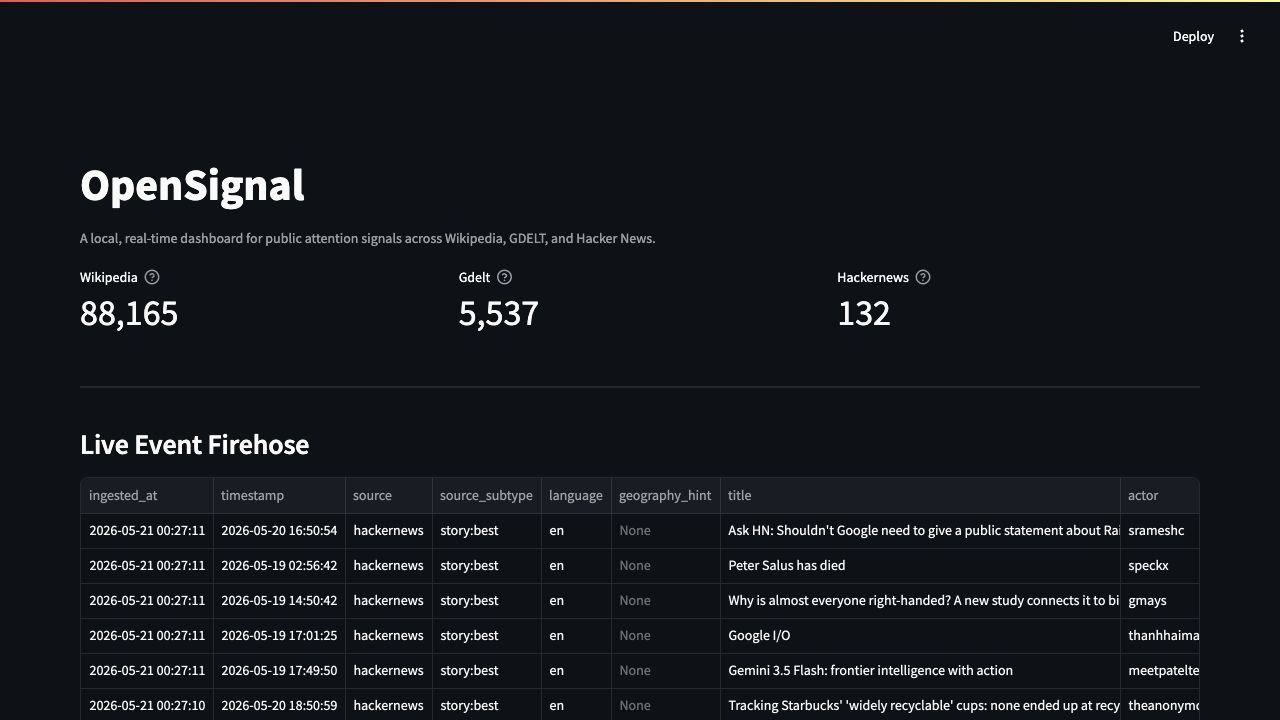
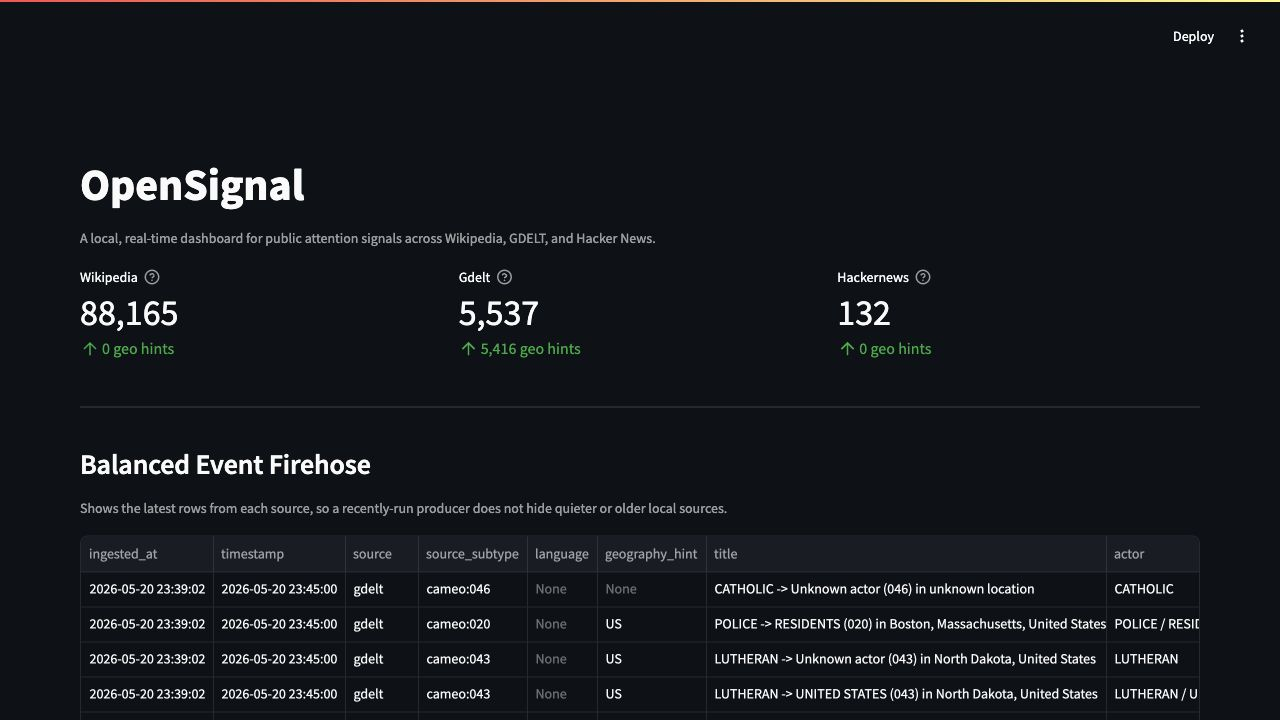
Balance dashboard source visibility

diff --git a/dashboard/app.py b/dashboard/app.py
@@ -15,6 +15,7 @@ SOURCE_COLORS = {
     "gdelt": "#ef4444",
     "hackernews": "#f59e0b",
 }
+SOURCES = ["wikipedia", "gdelt", "hackernews"]
 
 
 @st.cache_resource
@@ -39,7 +40,8 @@ def render_metrics() -> None:
         SELECT
             source,
             count() AS events,
-            max(ingested_at) AS latest
+            max(ingested_at) AS latest,
+            countIf(geography_hint IS NOT NULL) AS with_geo
         FROM events_raw
         GROUP BY source
         ORDER BY source
@@ -47,17 +49,35 @@ def render_metrics() -> None:
     )
 
     cols = st.columns(3)
-    for index, source in enumerate(["wikipedia", "gdelt", "hackernews"]):
+    for index, source in enumerate(SOURCES):
         row = df[df["source"] == source]
         events = int(row["events"].iloc[0]) if not row.empty else 0
         latest = row["latest"].iloc[0] if not row.empty else "none"
-        cols[index].metric(source.title(), f"{events:,}", help=f"Latest event: {latest}")
+        with_geo = int(row["with_geo"].iloc[0]) if not row.empty else 0
+        geo_label = f"{with_geo:,} geo hints"
+        cols[index].metric(source.title(), f"{events:,}", delta=geo_label, help=f"Latest local ingest: {latest}")
 
 
 def render_firehose() -> None:
-    st.subheader("Live Event Firehose")
+    st.subheader("Balanced Event Firehose")
     df = query_df(
         """
+        WITH ranked AS
+        (
+            SELECT
+                ingested_at,
+                timestamp,
+                source,
+                source_subtype,
+                language,
+                geography_hint,
+                title,
+                actor,
+                magnitude,
+                content_url,
+                row_number() OVER (PARTITION BY source ORDER BY ingested_at DESC) AS source_rank
+            FROM events_raw
+        )
         SELECT
             ingested_at,
             timestamp,
@@ -69,11 +89,12 @@ def render_firehose() -> None:
             actor,
             magnitude,
             content_url
-        FROM events_raw
-        ORDER BY ingested_at DESC
-        LIMIT 100
+        FROM ranked
+        WHERE source_rank <= 35
+        ORDER BY source, ingested_at DESC
         """
     )
+    st.caption("Shows the latest rows from each source, so a recently-run producer does not hide quieter or older local sources.")
     st.dataframe(
         df,
         use_container_width=True,
@@ -123,6 +144,12 @@ def render_volume() -> None:
 def top_titles(source: str, label: str, limit: int = 15) -> None:
     df = query_df(
         f"""
+        WITH latest AS
+        (
+            SELECT max(bucket) AS max_bucket
+            FROM title_activity_5m
+            WHERE source = '{source}'
+        )
         SELECT
             title,
             sum(event_count) AS events,
@@ -130,7 +157,7 @@ def top_titles(source: str, label: str, limit: int = 15) -> None:
         FROM title_activity_5m
         WHERE
             source = '{source}'
-            AND bucket >= now() - INTERVAL 1 HOUR
+            AND bucket >= (SELECT max_bucket FROM latest) - INTERVAL 1 HOUR
         GROUP BY title
         ORDER BY events DESC, magnitude DESC
         LIMIT {limit}
@@ -150,7 +177,8 @@ def top_titles(source: str, label: str, limit: int = 15) -> None:
 
 
 def render_top_titles() -> None:
-    st.subheader("Top Titles By Source, Last 1h")
+    st.subheader("Top Titles By Source, Latest Available 1h")
+    st.caption("Each column uses that source's latest available local timestamp. Producers are run manually during Stage 1, so one global wall-clock hour would hide inactive sources.")
     cols = st.columns(3)
     with cols[0]:
         top_titles("wikipedia", "Wikipedia Articles")
@@ -158,6 +186,51 @@ def render_top_titles() -> None:
         top_titles("gdelt", "GDELT Actors/Events")
     with cols[2]:
         top_titles("hackernews", "Hacker News Stories")
+
+
+def render_geography() -> None:
+    st.subheader("Geography Hints")
+    coverage = query_df(
+        """
+        SELECT
+            source,
+            count() AS events,
+            countIf(geography_hint IS NOT NULL) AS with_geo,
+            round(100 * with_geo / events, 1) AS geo_pct
+        FROM events_raw
+        GROUP BY source
+        ORDER BY source
+        """
+    )
+    st.caption("GDELT provides source-level country codes. Wikipedia and Hacker News do not provide reliable geography in raw ingestion; those are left for enrichment.")
+    st.dataframe(coverage, use_container_width=True, hide_index=True)
+
+    gdelt_geo = query_df(
+        """
+        SELECT
+            geography_hint,
+            count() AS events
+        FROM events_raw
+        WHERE source = 'gdelt' AND geography_hint IS NOT NULL
+        GROUP BY geography_hint
+        ORDER BY events DESC
+        LIMIT 20
+        """
+    )
+    if not gdelt_geo.empty:
+        fig = px.bar(
+            gdelt_geo,
+            x="geography_hint",
+            y="events",
+            color_discrete_sequence=[SOURCE_COLORS["gdelt"]],
+        )
+        fig.update_layout(
+            height=300,
+            margin=dict(l=12, r=12, t=20, b=12),
+            xaxis_title="Country code",
+            yaxis_title="GDELT events",
+        )
+        st.plotly_chart(fig, use_container_width=True)
 
 
 def main() -> None:
@@ -182,6 +255,8 @@ def main() -> None:
     st.divider()
     render_volume()
     st.divider()
+    render_geography()
+    st.divider()
     render_top_titles()
 
     st.caption(f"Last refreshed at {datetime.now(UTC).strftime('%Y-%m-%d %H:%M:%S UTC')}")
@@ -189,4 +264,3 @@ def main() -> None:
 
 if __name__ == "__main__":
     main()
-

diff --git a/README.md b/README.md
@@ -136,9 +136,12 @@ make demo
 
 The dashboard includes:
 
-- live event firehose, last 100 events
+- balanced event firehose, latest rows from each source
 - stacked volume by source, last 24 hours
-- top titles by source, last 1 hour
+- geography hint coverage and GDELT country distribution
+- top titles by source, using each source's latest available hour
+
+Stage 1 geography note: GDELT provides country codes in the raw feed. Wikipedia and Hacker News do not provide reliable geography at ingestion time, so those are intentionally left blank until the enrichment layer extracts entities and locations.
 
 ## Bluesky Ingestion
 
